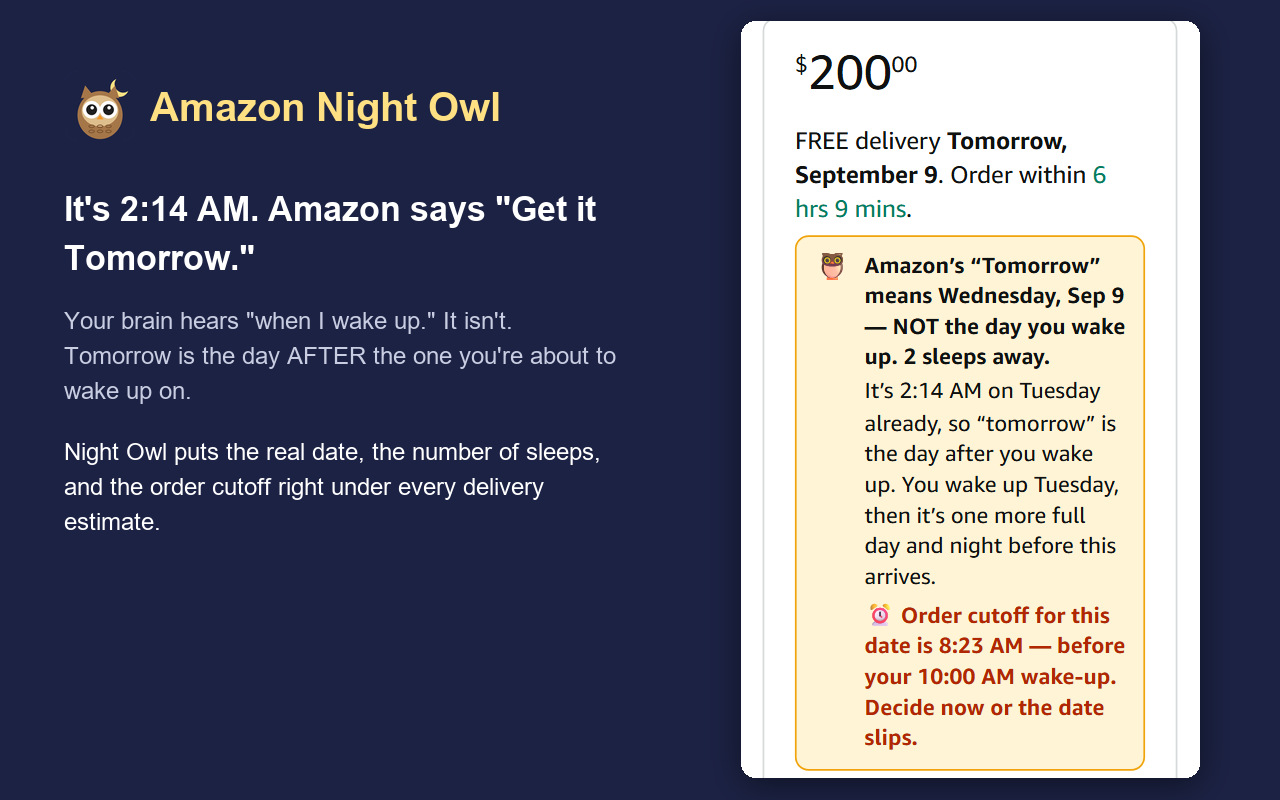
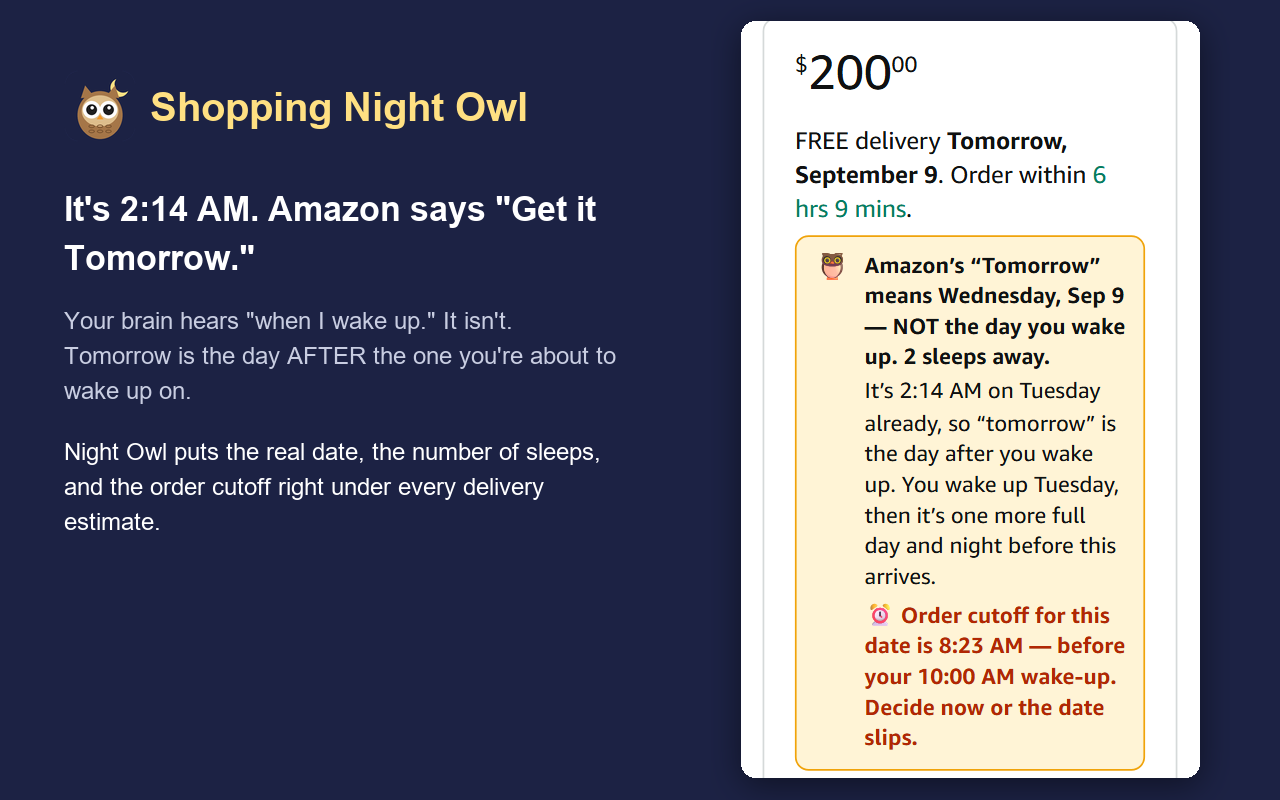
Rename to Shopping Night Owl, refresh screenshots, add README

Changed region(s): [[0.0938, 0.0938, 0.4375, 0.1875]]

diff --git a/privacy.html b/privacy.html
@@ -3,7 +3,7 @@
 <head>
 <meta charset="utf-8">
 <meta name="viewport" content="width=device-width, initial-scale=1">
-<title>Privacy Policy — Amazon Night Owl</title>
+<title>Privacy Policy — Shopping Night Owl</title>
 <link rel="icon" href="img/icon128.png">
 <style>
   body { margin: 0; font-family: "Segoe UI", -apple-system, Arial, sans-serif; color: #1a1a1a; background: #f6f7fb; line-height: 1.6; }
@@ -17,12 +17,12 @@
 </style>
 </head>
 <body>
-<header><div class="wrap"><a href="index.html">🦉 Amazon Night Owl</a></div></header>
+<header><div class="wrap"><a href="index.html">🦉 Shopping Night Owl</a></div></header>
 <main>
   <h1>Privacy Policy</h1>
   <p class="updated">Last updated: September 8, 2026</p>
 
-  <p>Amazon Night Owl is a browser extension that explains what Amazon's delivery-date estimates mean when you are shopping late at night. This policy describes what the extension does and does not do with data.</p>
+  <p>Shopping Night Owl is a browser extension that explains what Amazon's delivery-date estimates mean when you are shopping late at night. This policy describes what the extension does and does not do with data.</p>
 
   <h2>Summary</h2>
   <p><strong>The extension does not collect, store, transmit, sell, or share any personal data.</strong> It has no servers, no analytics, no accounts, and makes no network requests.</p>
@@ -49,6 +49,8 @@
 
   <h2>Contact</h2>
   <p>Questions about this policy can be sent to the contact email shown on the extension's Chrome Web Store listing.</p>
+
+  <p class="updated">Shopping Night Owl is not affiliated with, endorsed by, or sponsored by Amazon. "Amazon" is a trademark of Amazon.com, Inc.</p>
 </main>
 </body>
 </html>

diff --git a/index.html b/index.html
@@ -3,7 +3,7 @@
 <head>
 <meta charset="utf-8">
 <meta name="viewport" content="width=device-width, initial-scale=1">
-<title>Amazon Night Owl — "Tomorrow" isn't when you wake up</title>
+<title>Shopping Night Owl — "Tomorrow" isn't when you wake up</title>
 <meta name="description" content="A free Chrome extension that explains what Amazon's delivery dates really mean when you're shopping past midnight.">
 <link rel="icon" href="img/icon128.png">
 <style>
@@ -54,7 +54,7 @@
 <header>
   <div class="wrap">
     <div>
-      <div class="brand"><img src="img/icon128.png" alt=""><span>Amazon Night Owl</span></div>
+      <div class="brand"><img src="img/icon128.png" alt=""><span>Shopping Night Owl</span></div>
       <h1>It's 2 AM. Amazon says "Get it Tomorrow."<br>That is not when you wake up.</h1>
       <p>A free Chrome extension for people who shop for parts after midnight. It puts the real calendar date, the number of sleeps, and the order cutoff right under every Amazon delivery estimate.</p>
       <a class="cta" id="install" href="#install">Add to Chrome</a>
@@ -122,7 +122,7 @@
 
 <footer>
   <div class="wrap">
-    <div>🦉 Amazon Night Owl · free and open · <a href="privacy.html">Privacy policy</a></div>
+    <div>🦉 Shopping Night Owl · free and open · <a href="privacy.html">Privacy policy</a></div>
     <div>Not affiliated with Amazon. "Amazon" is a trademark of Amazon.com, Inc.</div>
   </div>
 </footer>

diff --git a/README.md b/README.md
@@ -1,0 +1,8 @@
+# Shopping Night Owl — marketing site
+
+Static landing page and privacy policy for the Shopping Night Owl Chrome extension.
+Served by GitHub Pages from the root of the `main` branch.
+
+- `index.html` — landing page
+- `privacy.html` — privacy policy (linked from the Chrome Web Store listing)
+- `img/` — screenshots and icon, generated in the extension repo by `scripts/store_shots.js` + `scripts/store_compose.py`
